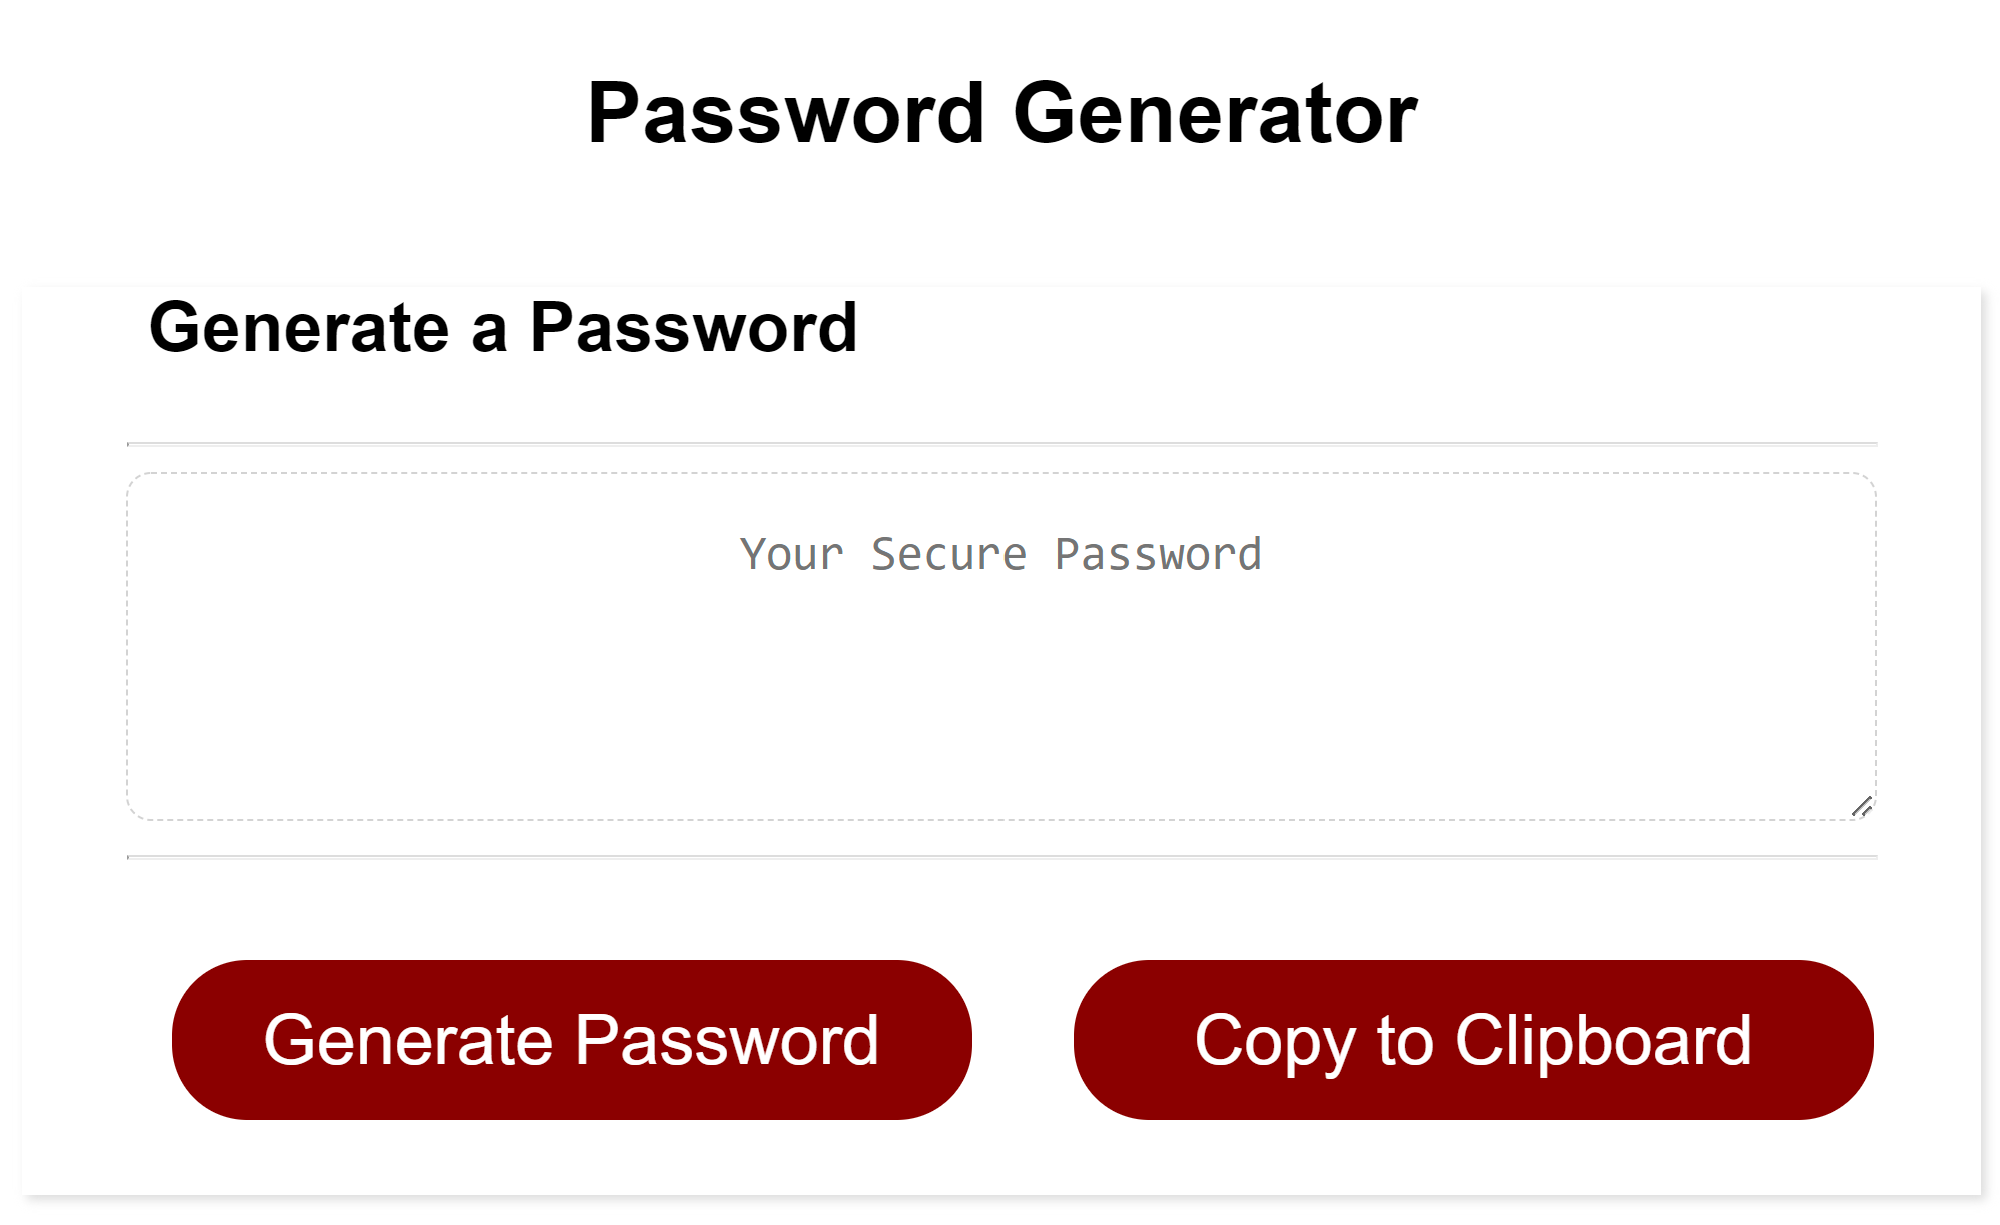
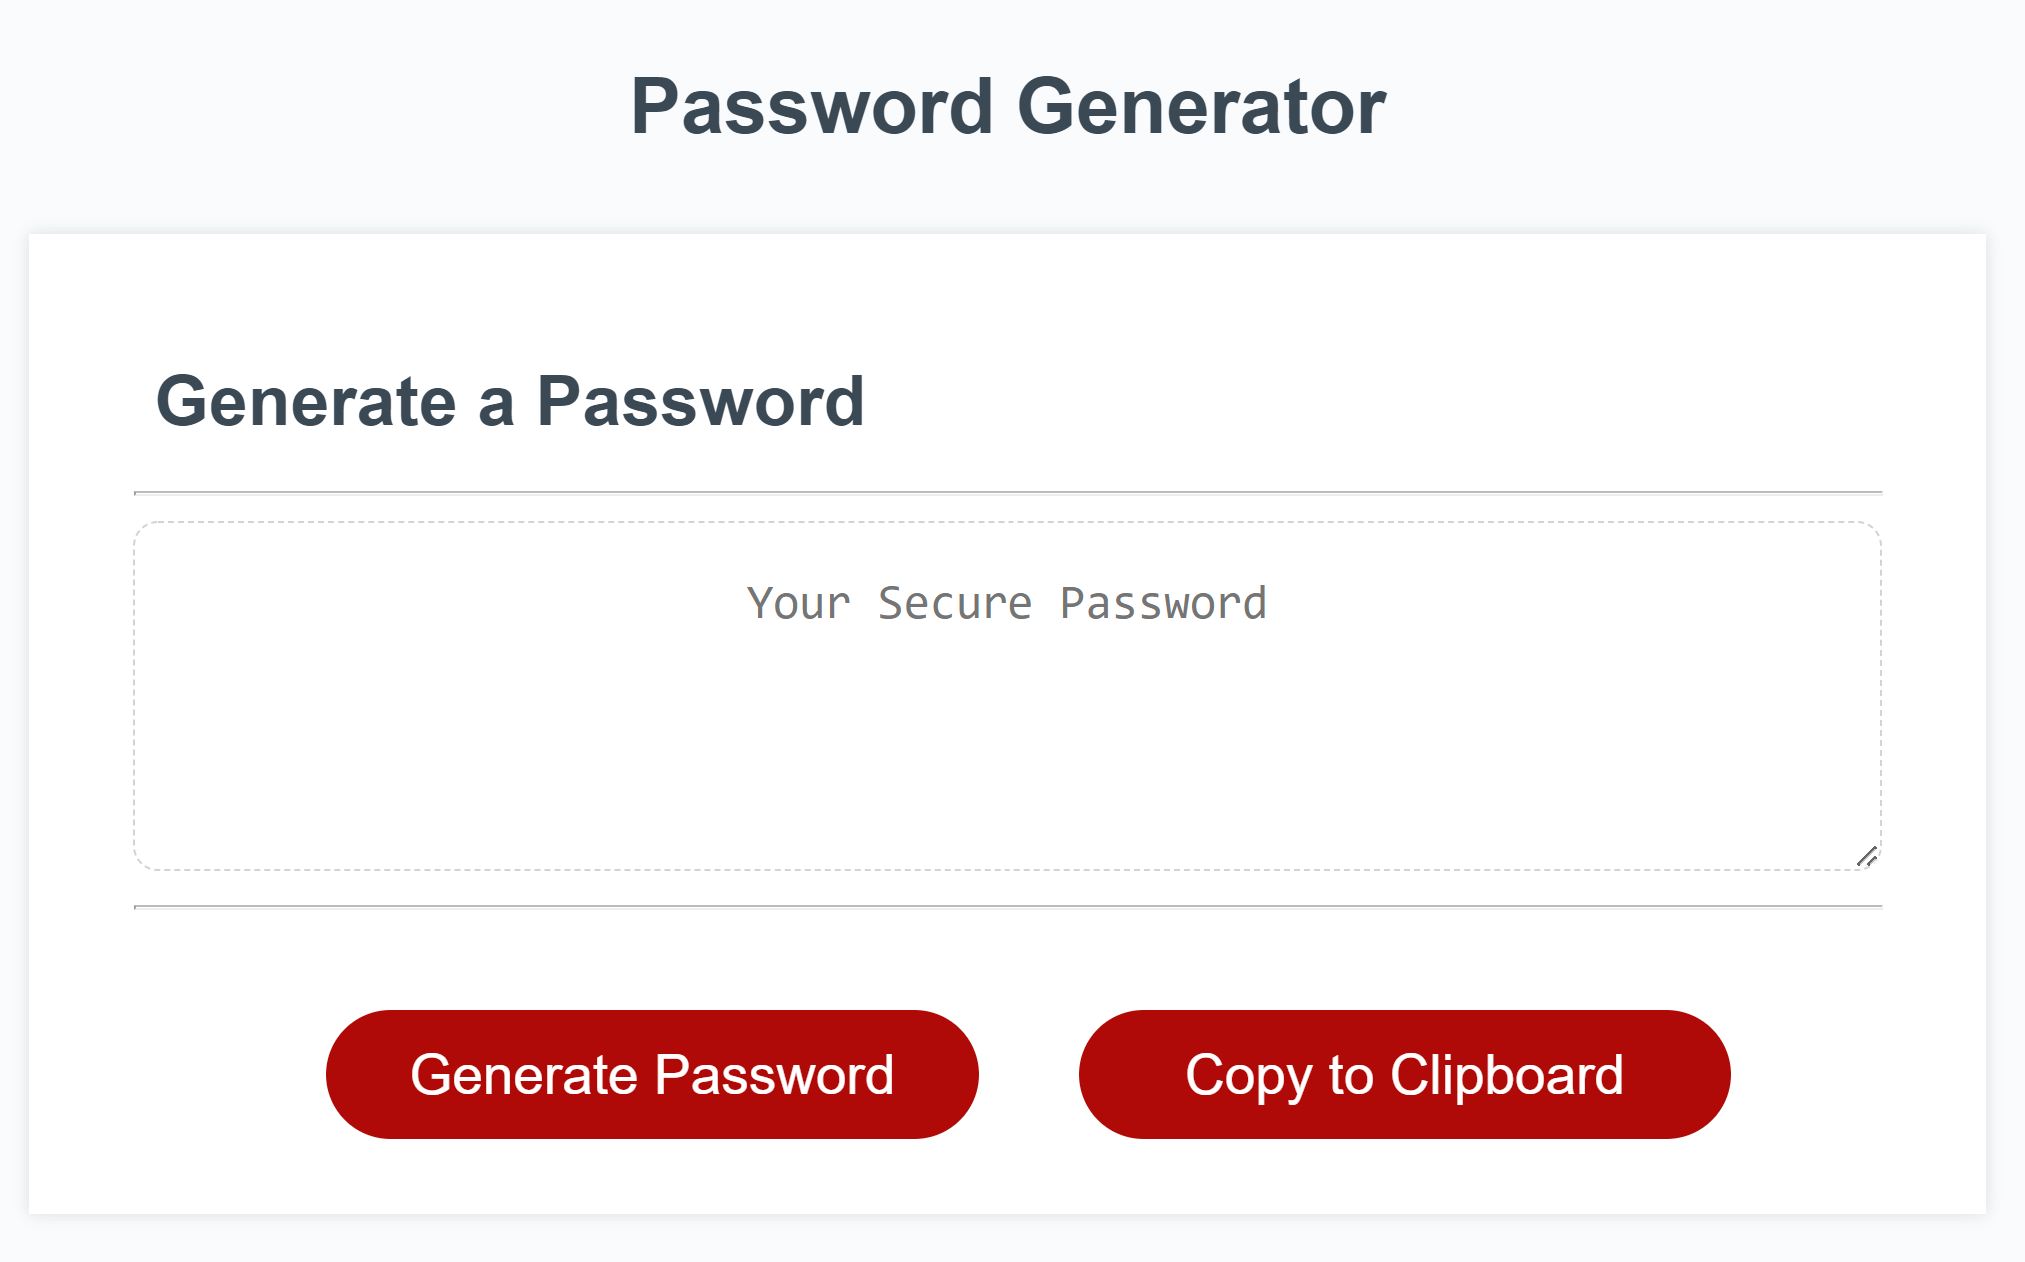
screen cap, script change, style tweaks

diff --git a/Assets/scripts/script.js b/Assets/scripts/script.js
@@ -61,7 +61,7 @@ let generatePassword = function(){
         pwOptions += "1234567890";
     }
     if (passwordSpecChars) {
-        pwOptions += "()\`~!@#$%^&*-+=|\{}[]:;\"'<>,.?/";
+        pwOptions += "!\"#$%&'()*+,-./:;<=>?@[\]^_`{|}~";
     }
 
     // generate from options and length

diff --git a/Assets/styles/styles.css b/Assets/styles/styles.css
@@ -24,7 +24,7 @@ h2 {
     color: #3b4955;
 }
 hr {
-    border-top: 1px solid #bbb;
+    border-top: 1px solid #ddd;
     margin: 10px 42px;
     width: 700px;
 }
